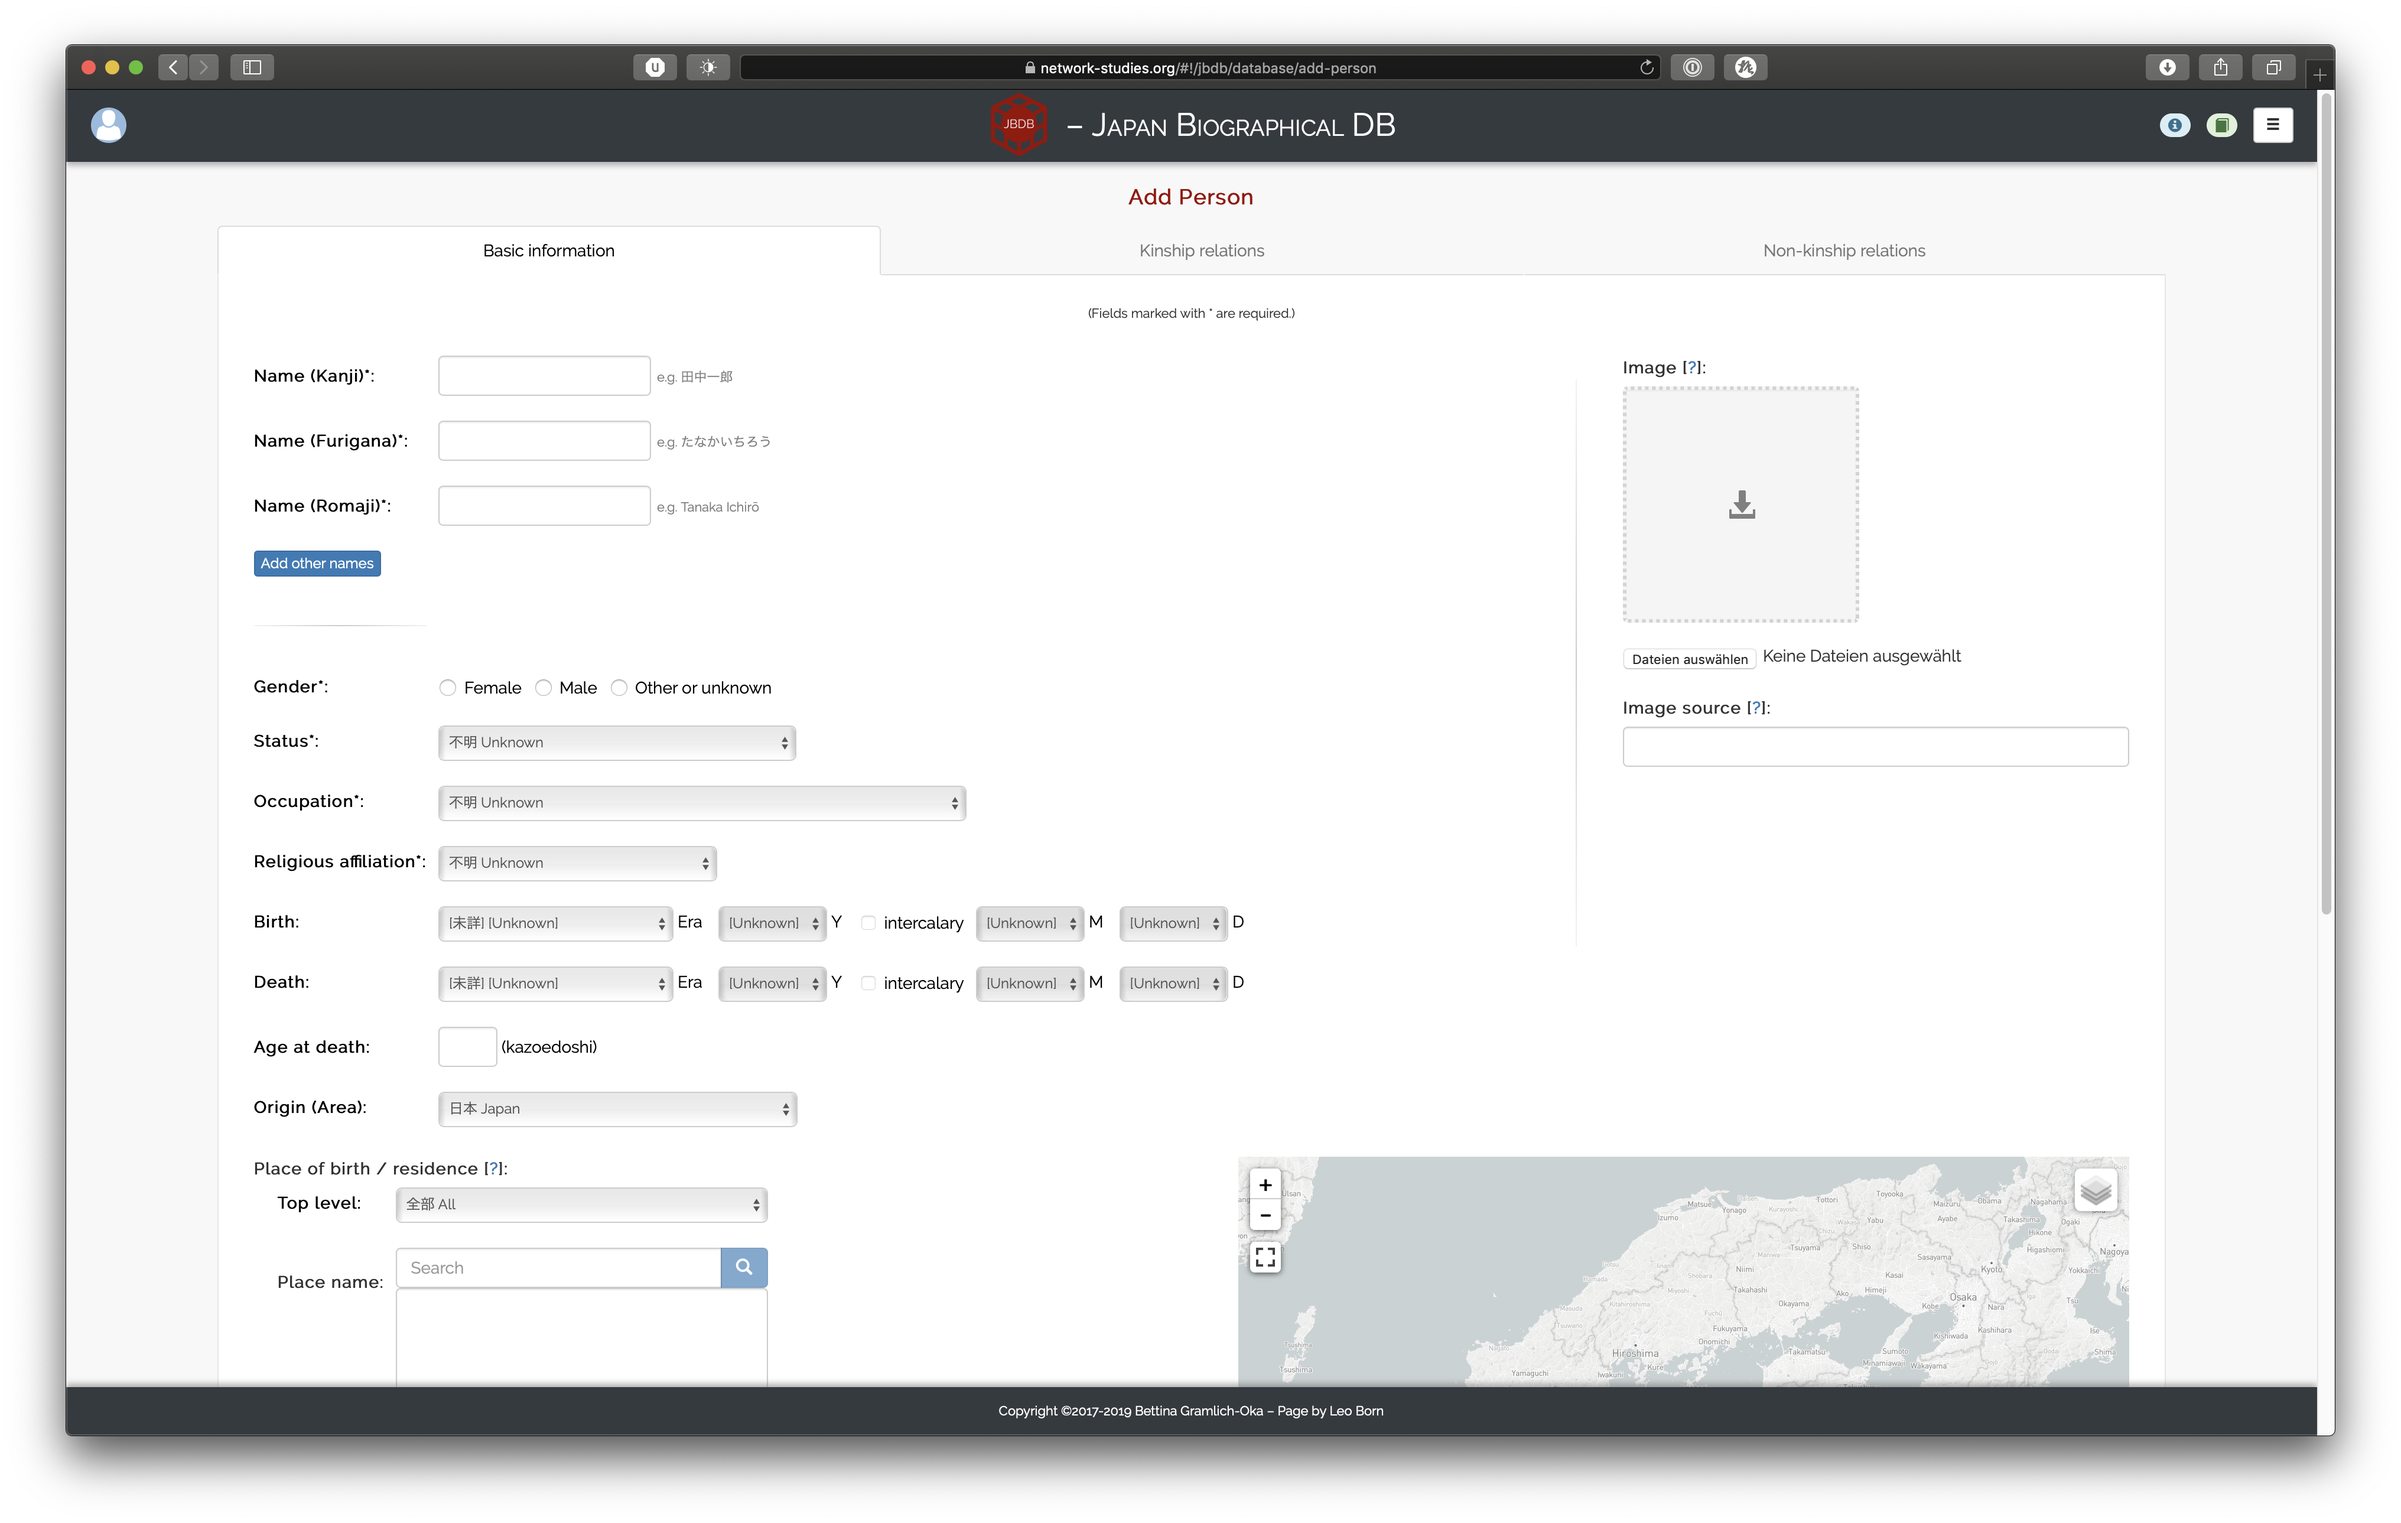
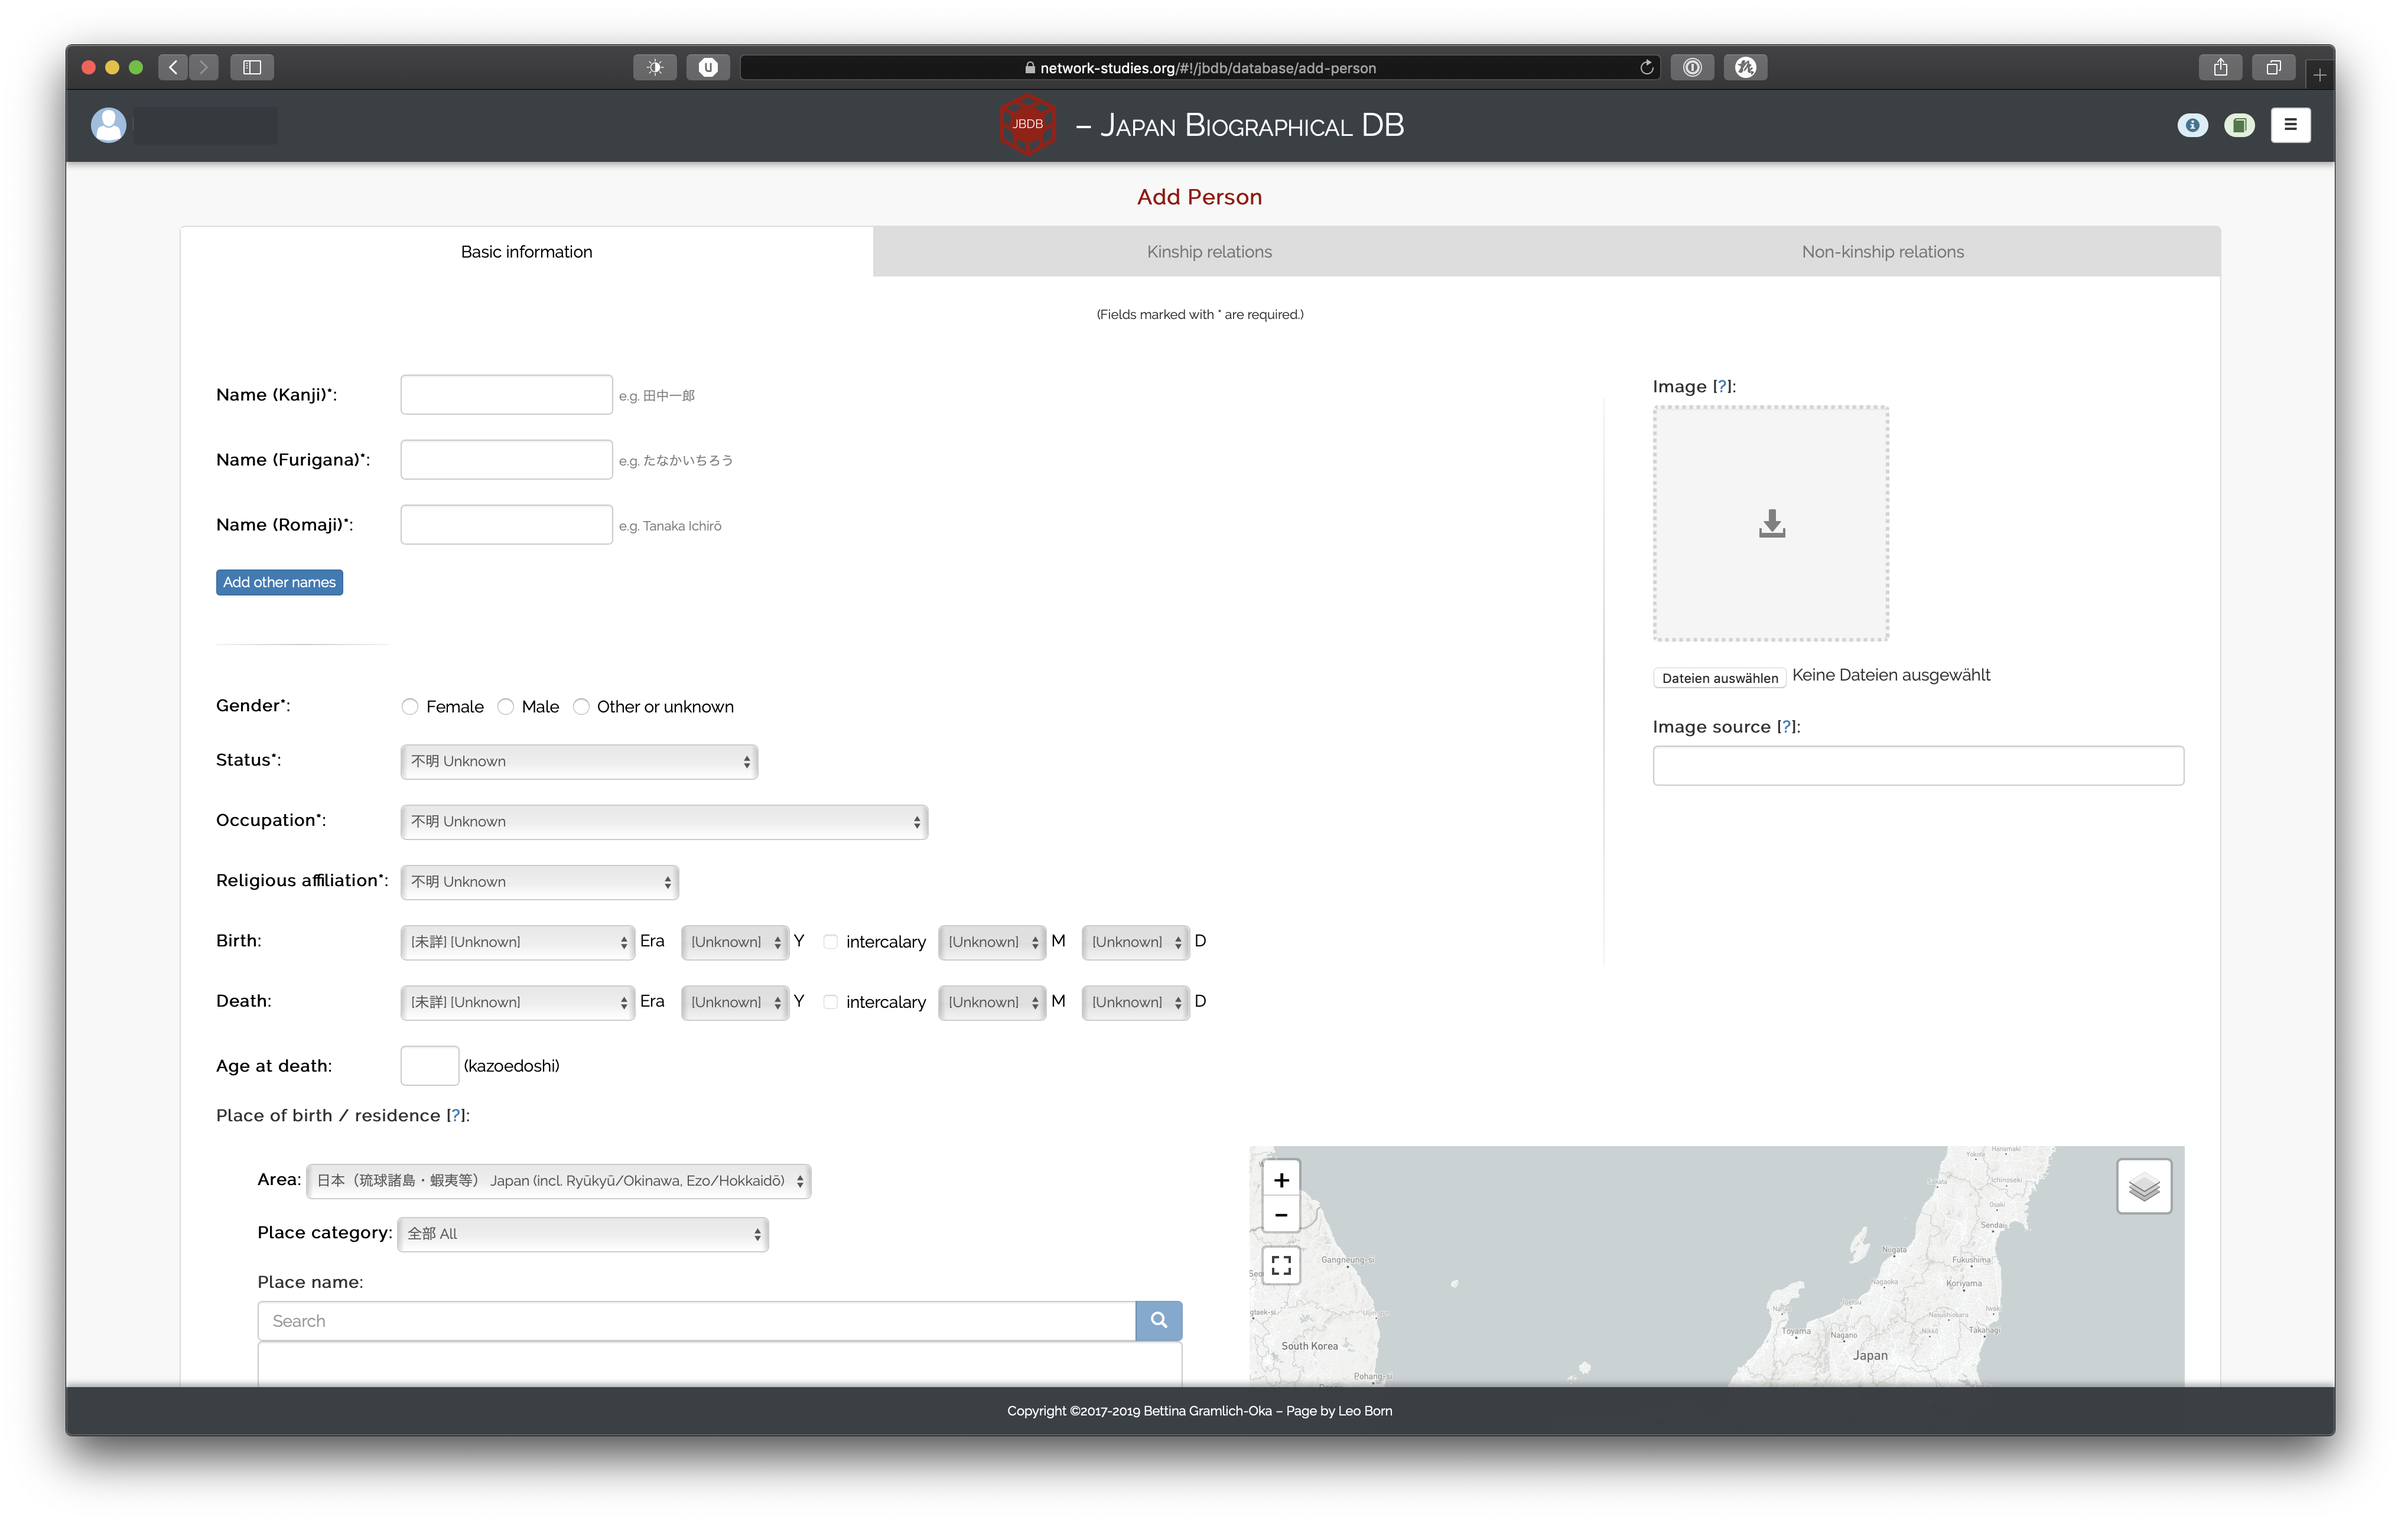
Re-worked updated parts of person manual; up-to-date now

diff --git a/persons.md b/persons.md
@@ -28,8 +28,6 @@ Entering a search term will result in all matching entries to be displayed in th
 
 ![Search person by altname](../img/search-person-altname.png)
 
-Note, however, that currently alternative names are only considered when using the search filter without any other filters in conjunction. Therefore, if you use the era quickfilter for example (see below), and then try to find persons via their alternative names, this will currently not work.
-
 Furthermore, if you enter your query in romaji, the names will be matched in the background with an expanded query. This expanded query accounts for macrons and accents (for European names), so that "Shunpu" will match "頼春風 Rai Shunpū". The current expansion rules look as follows:
 
 * _e_ -> è \| é \| ê \| e
@@ -37,25 +35,9 @@ Furthermore, if you enter your query in romaji, the names will be matched in the
 * _u_ -> ū \| u
 * _c_ -> ç \| c
 
-Other means of searching for persons include filtering by family name only, status (身分), and era (年号), all available in the quickfilter modal window. Clicking on the "Quickfilter" button next to the search bar opens the following window:
-
-![Quickfilter](../img/quickfilter.png)
-
-Searching by family name only becomes accessible once a name has been searched for. Enabling search by family name results in matching entries only if the search query appears at the beginning of a name since Japanese names are written in the format LASTNAMEFIRSTNAME (in romaji it is LASTNAME FIRSTNAME). As is obvious, this is only a crude approximation for matching family names and does not work for European names, for example.
-
-Filtering by status or era works by simply selecting the corresponding category you want to have matched from the dropdown. These filters work in conjunction with the search query, so, for example, you can specifically ask for all persons matching "田中" who were warriors. As mentioned, however, filtering by either status or era disables the matching of alternative names.
-
-Additionally, you can set the conjunction parameter __AND__ for the status and era categories. If you select values other than "全部 All" for both of them, you can choose to either keep the default search constraint of having to match both status _and_ era, or to loosen the constraint by allowing to return persons matching either status _or_ era.<sup id="a1">[1](#f1)</sup>
-
-Lastly, note that currently the era selection only considers if either the birth or death date matches the era. It is planned for the future that this operation recognizes whether a person _lived_ during the queried era as well.
-
-You can also just choose to display person entries you created. Currently, this does not account for entries you _modified_ as the assumption is that most users are only able to edit their own entries.
-
-The button "Advanced Search" yields a prototype of a separate search UI that is not implemented well yet (see important notice below).
-
 ### Important notice
 
-Apart from the improvements mentioned in the previous section, we are currently working on a complete overhaul of the search functionality. In the future, searching capabilities will be closely resemble those currently found in the visualization suite (discussed [here](./vissettings.md)). This will include fine-grained search by status, occupation, location etc. *plus* a combination of multiple attributes via __AND__ and __OR__ operators. This enhanced search capability will likely result in dropping the quickfilter in favor of direct access to an "Advanced Search" view.
+The button "Advanced Search" yields a prototype of a separate search UI that is not implemented well yet. We are currently working on a complete overhaul of the search functionality. In the future, searching capabilities will closely resemble those currently found in the visualization suite (discussed [here](./vissettings.md)). This will include fine-grained search by status, occupation, location etc. *plus* a combination of multiple attributes via __AND__ and __OR__ operators. This enhanced search capability will likely result in dropping the quickfilter in favor of direct access to an "Advanced Search" view.
 
 ## Adding a new person<a name="adding-a-person"></a>
 
@@ -69,7 +51,7 @@ After clicking on it, the empty form for adding a person will be shown:
 
 ![Add person 1](../img/add-person-1.png)
 
-You will notice that the view defaults to the tab "Basic information" and that the remaining tabs, "Kinship relations" and "Non-kinship relations", are greyed out. This is because the relation tables in those latter views require the name of the person to be given. Therefore, after entering the person's name, you will find the other tabs to be clickable (indicated by their blue color):<sup id="a2">[2](#f2)</sup>
+You will notice that the view defaults to the tab "Basic information" and that the remaining tabs, "Kinship relations" and "Non-kinship relations", are greyed out. This is because the relation tables in those latter views require the name of the person to be given. Therefore, after entering the person's name, you will find the other tabs to be clickable (indicated by their blue color):<sup id="a1">[1](#f1)</sup>
 
 ![Add person 2](../img/add-person-2.png)
 
@@ -78,6 +60,8 @@ Before we turn our attention to the kinship and non-kinship relations, however, 
 ### Basic information<a name="basic-information"></a>
 
 #### Names
+
+The name of a person is the minimal information you need to provide in order to create an entry. Note, however, that all basic name information are required, even when a certain variant (e.g. kanji) is not known or applicable. In these cases, it suffices to simply duplicate the name variant that is known. For example, if you enter a person whose name is _しず Shizu_, but the kanji of that name are not known, simply type place _しず_ into the kanji column as well.
 
 After entering the person's main name in kanji, furigana, and romaji, you can proceed to enter additional names that person was known by. Simply click on the "Add other names" button and the following modal window will appear:
 
@@ -208,25 +192,26 @@ The intercalary (or 閏) checkbox for dates is intended to be applied to actual 
 
 #### Origin
 
-You can also select either the birthplace of a person or an associated place of residence. Entering this information is a two-step process. First, you have to select the geographical region appropriate for that person:
+You can also select either the birthplace of a person or an associated place of residence. Entering this information is a two-step process. First, you have to select the geographical region appropriate for that person:<sup id="a2">[2](#f2)</sup>
 
 * [未詳] [Unknown]
-* 日本 Japan
+* 日本（琉球諸島・蝦夷等） Japan (incl. Ryūkyū/Okinawa, Ezo/Hokkaidō)
 * 中国 China
 * 朝鮮・韓国 Korea
-* 琉球諸島 Ryūkyū Islands
-* アジア（蝦夷等） Other Asian countries (incl. Ezo)
+* アジア Other Asian countries
 * ヨーロッパ Europa
 * アメリカ州 Americas
 * その他 Other
 
-Depending on the selected region, different places and place categories become available. You can either leave the top level category set to the default value of 全部 All or specify a specific sub-category. Just like searching for persons, simply enter a name and select the corresponding place. If multiple results are available, you can check the selected place on the map on the right:
+Depending on the selected region, different places and place categories become available. You can either leave the place category set to the default value of 全部 All or specify a specific sub-category. Just like searching for persons, simply enter a name and select the corresponding place. If multiple results are available, you can check the selected place on the map on the right:
 
 ![Add person 4](../img/add-person-4.png)
 
 The field "Other" can be used either when a place to be entered cannot be found (in this case, the place won't be shown on any maps) or if you want to specify the exact address.
 
-For Japan, the data we use comes from the [歴史地名データセット](https://www.nihu.jp/ja/publication/source_map). Please refer to their documentation for an overview of available place categories. For the remaining regions, we are currently working on integrating the [GeoNames gazetteer](http://download.geonames.org/export/dump/) into our database.
+**Note** that the place category selected will _not_ be stored in the database. The place category selection only serves to make searching for places easier. Conversely, the geographical region, the place itself and the field "Other" _will_ be saved in the database.
+
+For Japan, the data we use comes from the [歴史地名データセット](https://www.nihu.jp/ja/publication/source_map). Please refer to their documentation for an overview of available place categories. For the remaining regions, we use the [GeoNames gazetteer](http://download.geonames.org/export/dump/) as of June 2019. Note that this dataset is very large, so searching for a place might take longer than for Japanese places. Furthermore, there will be much more results per query as the regions considered when searching are broader. Lastly, be aware that this does _not_ constitute a historical GIS dataset.
 
 #### Sources
 
@@ -234,7 +219,7 @@ Lastly, please select the source you have used to gather the information on this
 
 ![Select source](../img/select-source.png)
 
-If the source(s) you have used is/are not present, please make sure to [add a source entry](https://japan-biographical-db.github.io/sources/adding-a-source) first in the [add-source view](https://network-studies.org/#!/jbdb/database/add-source). You can simply open a new browser tab for that and head to the sources view.<sup id="a3">[3](#f3)</sup>
+If the source(s) you have used is/are not present, please make sure to [add a source entry](https://japan-biographical-db.github.io/sources/adding-a-source) first in the [add-source view](https://jbdb.jp/#!/jbdb/database/add-source). You can simply open a new browser tab for that and head to the sources view.<sup id="a3">[3](#f3)</sup>
 
 Additionally, you can enter the page numbers of the selected source(s) and a general comment on this person or the entry:
 
@@ -295,7 +280,11 @@ You can additionally leave a comment for any specific relation, e.g. you could u
 
 Once you save this person, the kinship entry will be added to the database.
 
+#### Note on complementary relations<a name="complementary-relations"></a>
+
 Note that any complementary relation gets automatically created, so you do not need to do that yourself. For example, since we added the relation that Tanaka Ichirō is the son of Tanaka Keitei, after saving the new person entry the relation that Tanaka Keitei is the father of Tanaka Ichirō gets automatically added as well.
+
+Determined by gender automatically. Note that if gender is set to "Unknown or other", we default to treating this as "Male" for kinship relations, so that we are consistent in assigning complementary relations (PLUS, generic "child of" does not exist.)
 
 ### Non-kinship relations<a name="non-kinship-relations"></a>
 
@@ -352,8 +341,9 @@ Once you accept the prompt, the person will be deleted. Along with the person en
 
 ---
 
-<b id="f1">1.</b> The conjunction parameter is set to true when one of the values is "全部 All" because a search condition like "武家 Warrior OR ALL\_ERAS" would return all persons again since all persons match the condition of all eras. Therefore, the only logical way of handling such queries is with an AND operation (i.e. "武家 Warrior AND ALL\_ERAS").[↩](#a1)
+<b id="f1">1.</b> You will also notice that there is an asterisk (*) after some, but not all, of the fields. An asterisk indicates that a field __must__ be filled out in order to correctly save the person in the database. Note that fields that default to a value (such as "不明 Unknown") can be left untouched if the necessary information is not available or not to be entered.[↩](#a1)
 
-<b id="f2">2.</b> You will also notice that there is an asterisk (*) after some, but not all, of the fields. An asterisk indicates that a field __must__ be filled out in order to correctly save the person in the database. Note that fields that default to a value (such as "不明 Unknown") can be left untouched if the necessary information is not available or not to be entered.[↩](#a2)
+
+<b id="f2">2.</b> Please note that the country/region selection represents modern geopolitical entities.[↩](#a2)
 
 <b id="f3">3.</b> Depending on your browser and/or cookie settings, however, you might have to log-in again.[↩](#a3)
